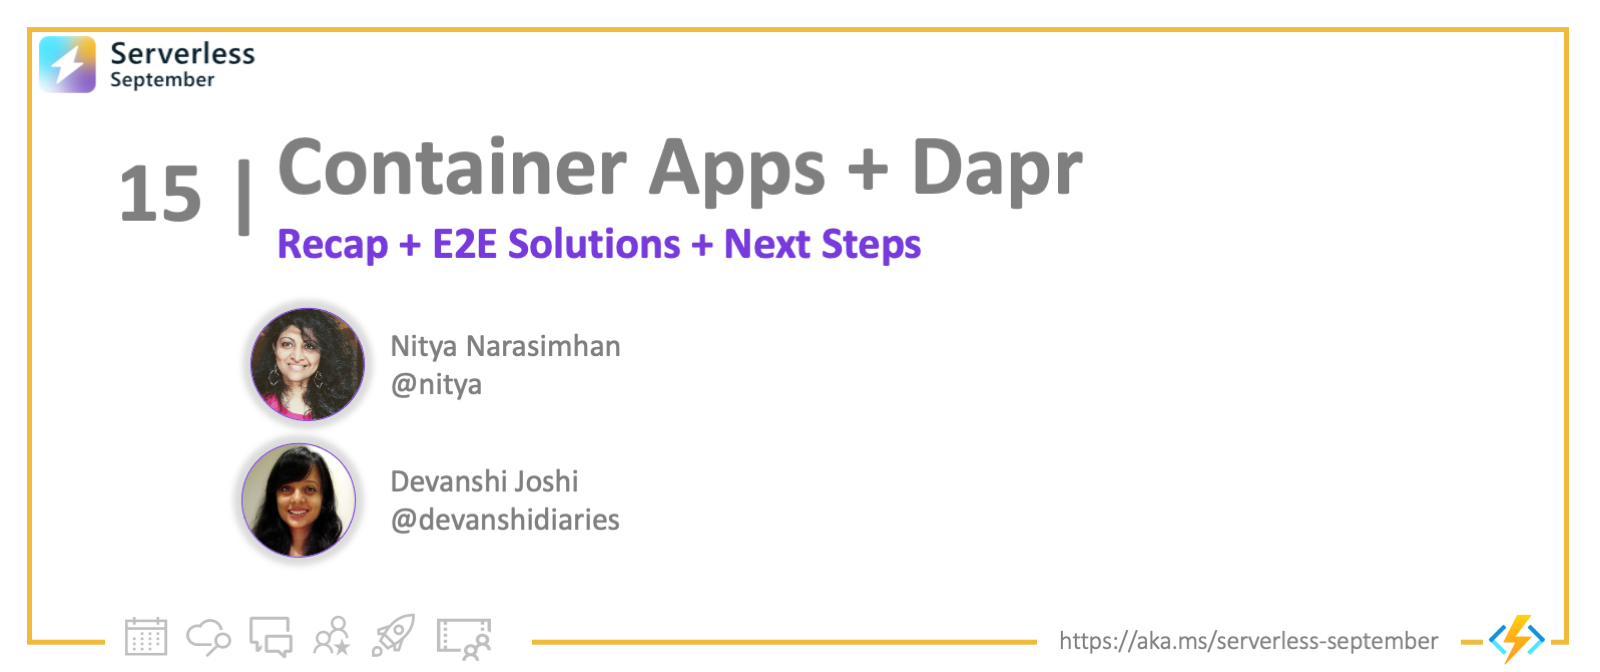
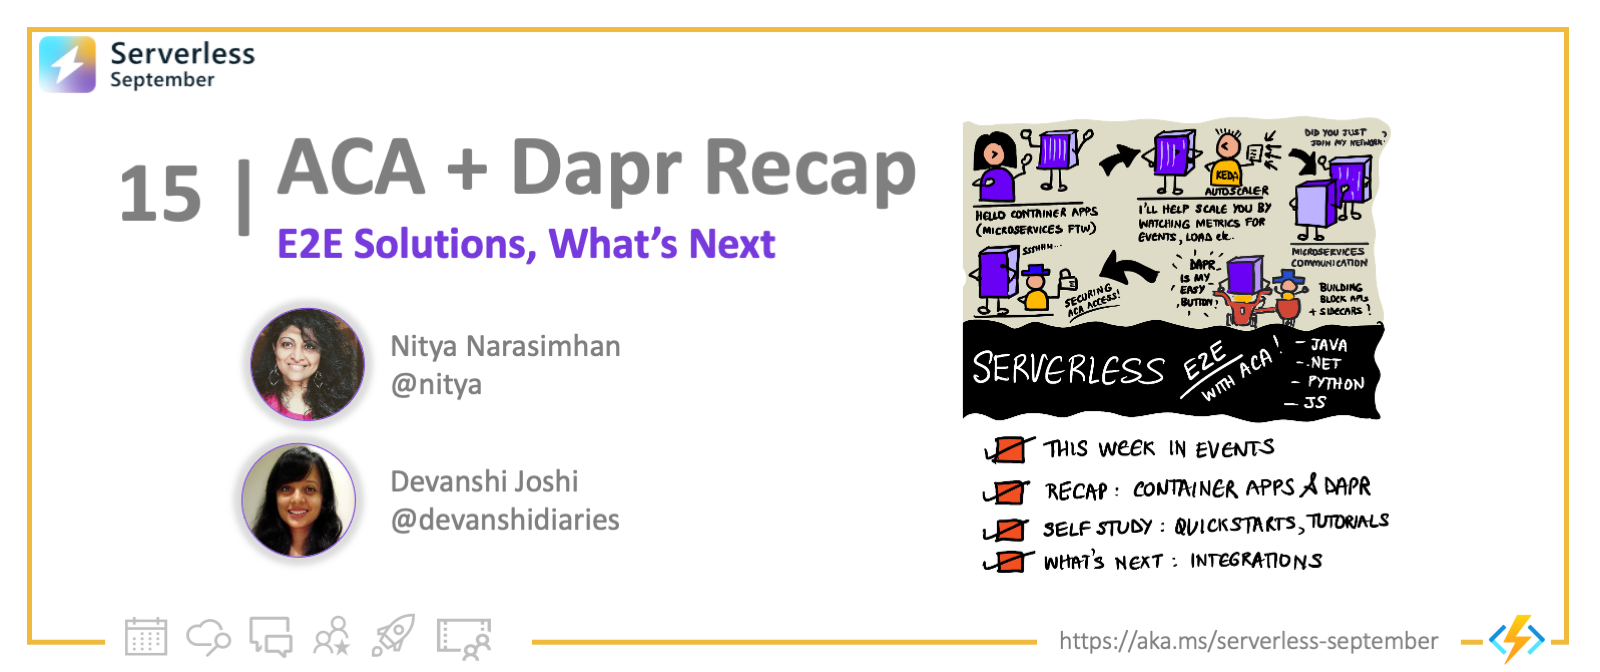
Fix #15

Changed region(s): [[0.1562, 0.1562, 0.875, 0.875]]

diff --git a/website/blog/2022-09-15/index.md b/website/blog/2022-09-15/index.md
@@ -2,7 +2,7 @@
 slug: 15-microservices-azure
 title: 15. ACA + Serverless On Azure
 authors: [nitya, devanshi]
-draft: true
+draft: false
 hide_table_of_contents: false
 toc_min_heading_level: 2
 toc_max_heading_level: 3
@@ -33,6 +33,10 @@ tags: [serverless-september, 30-days-of-serverless, azure-container-apps, dapr]
 
 Welcome to `Day 15` of #30DaysOfServerless!
 
+This post marks the midpoint of our Serverless on Azure journey! Our [Week 2 Roadmap](https://azure.github.io/Cloud-Native/serverless-september/30DaysOfServerless/) showcased two key technologies - [Azure Container Apps (ACA)](https://learn.microsoft.com/en-us/azure/container-apps/) and [Dapr](https://dapr.io) - for building serverless microservices. We'll also look at what happened elsewhere in #ServerlessSeptember, then set the stage for our next week's focus: Serverless Integrations.
+
+Ready? Let's Go!
+
 ---
 
 ## What We'll Cover
@@ -43,5 +47,41 @@ Welcome to `Day 15` of #30DaysOfServerless!
  * **Resources**: For self-study!
 
 ![](./img/banner.png)
+
+## This Week In Events
+
+We had a number of activities happen this week - here's a quick summary:
+ * On **Zero To Hero:** <br/>Anthony Chu took us on a [Journey to the Cloud with Azure Container Apps](http://localhost:3000/Cloud-Native/blog/zero2hero-aca-04) exploring tools to simplify develop-deploy workflows for ACA. And Melony Qin talked about [Using Custom Handlers For Go](http://localhost:3000/Cloud-Native/blog/zero2hero-func-03), explaining how this allows extended languages support in Azure Functions.
+ * On **Serverless Hacks:**  <br/>Gwyn was joined by Liam Hampton as they talked about [How to DevOps and Serverless The Right Way](https://www.youtube.com/watch?v=EcsAcm22GqI). And it's not too late to complete the hack and [submit your solution to our hall of fame](https://azure.github.io/Cloud-Native/serverless-september/ServerlessHacks/).
+ * On **Ask The Expert:** <br/>We had our first Live Q&A Session featuring members of the Azure Functions team, hosted by Gwyn. Catch up on the [recording](https://www.youtube.com/watch?v=wB5Va1a-MeY) for useful tips and guidance.
+
+## This Week in #30Days
+
+In our #30Days series we focused on Azure Container Apps and Dapr.
+ * In [Hello Container Apps](https://azure.github.io/Cloud-Native/blog/09-aca-fundamentals) we learned how Azure Container Apps helps you run microservices and containerized apps on serverless platforms. And we build and deployed our first ACA.
+ * In [Microservices Communication](https://azure.github.io/Cloud-Native/blog/microservices-10) we explored concepts like _environments_ and _virtual networking_, with a hands-on example to show how two microservices communicate in a deployed ACA.
+ * In [Scaling Your Container Apps](https://azure.github.io/Cloud-Native/blog/11-scaling-container-apps) we learned about KEDA (Kubernetes Event-Driven Autoscaler) and how to configure autoscaling for your ACA based on KEDA-supported triggers.
+ * In [Build with Dapr](https://azure.github.io/Cloud-Native/blog/12-build-with-dapr) we introduced the Distributed Application Runtime (Dapr) and learned how its Building Block APIs and sidecar architecture make it easier to develop microservices with ACA.
+ * In [Secure ACA Access](https://azure.github.io/Cloud-Native/blog/13-aca-managed-id) we learned how to secure ACA access to external services with - and without - Dapr, covering Secret Stores and Managed Identity.
+ * Finally, [Build ACA with Dapr](https://azure.github.io/Cloud-Native/blog/14-dapr-aca-quickstart) tied it all together with a enterprise app scenario where an orders processor (ACA) uses Dapr APIs (PubSub, State Management) to receive and store order messages from Azure Service Bus.
+
+## Self Study: Code Samples & Tutorials
+
+There's no better way to get familiar with the concepts, than to dive in and play with code samples and hands-on tutorials. Here are 4 resources to bookmark and try out:
+ 1. [Dapr Quickstarts](https://docs.dapr.io/getting-started/quickstarts/) - these walk you through samples showcasing individual Building Block APIs - with multiple language options available.
+ 2. [Dapr Tutorials](https://docs.dapr.io/getting-started/tutorials/) provides more complex examples of microservices applications and tools usage, including a [Distributed Calculator](https://github.com/dapr/quickstarts/tree/master/tutorials/distributed-calculator) polyglot app.
+ 3. Next, try to [Deploy a Dapr application to Azure Container Apps](https://learn.microsoft.com/en-us/azure/container-apps/microservices-dapr?tabs=bash) to get familiar with the process of setting up the environment, then deploying the app.
+ 4. Or, explore the many [Azure Container Apps samples](https://learn.microsoft.com/en-us/azure/container-apps/samples?source=recommendations) showcasing various features and more complex architectures tied to real world scenarios.
+
+## What's Next: Serverless Integrations!
+
+So far we've talked about core technologies (Azure Functions, Azure Container Apps, Dapr) that provide foundational support for your serverless solution. Next, we'll look at **Serverless Integrations** - specifically at technologies like Azure Logic Apps and Azure Event Grid that _automate workflows_ and create seamless end-to-end solutions that integrate _other_ Azure services in serverless-friendly ways.
+
+## Take the Challenge! 
+
+The [**Cloud Skills Challenge**](https://docs.microsoft.com/learn/challenges?id=b950cd7a-d456-46ab-81ba-3bd1ad86dc1c&WT.mc_id=javascript-74010-ninarasi) is still going on, and we've already had hundreds of participants join and complete the learning modules to skill up on Serverless.
+
+There's still time to join and get yourself on the leaderboard. Get familiar with Azure Functions, SignalR, Logic Apps, Azure SQL and more - in serverless contexts!! 
+
 
 ---
